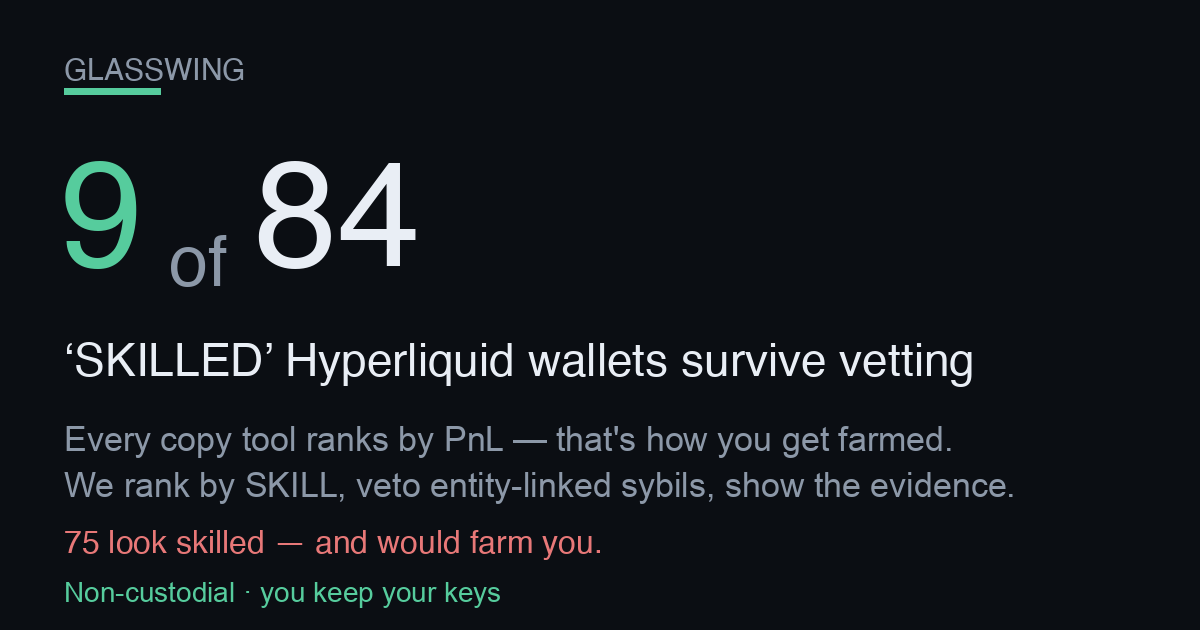
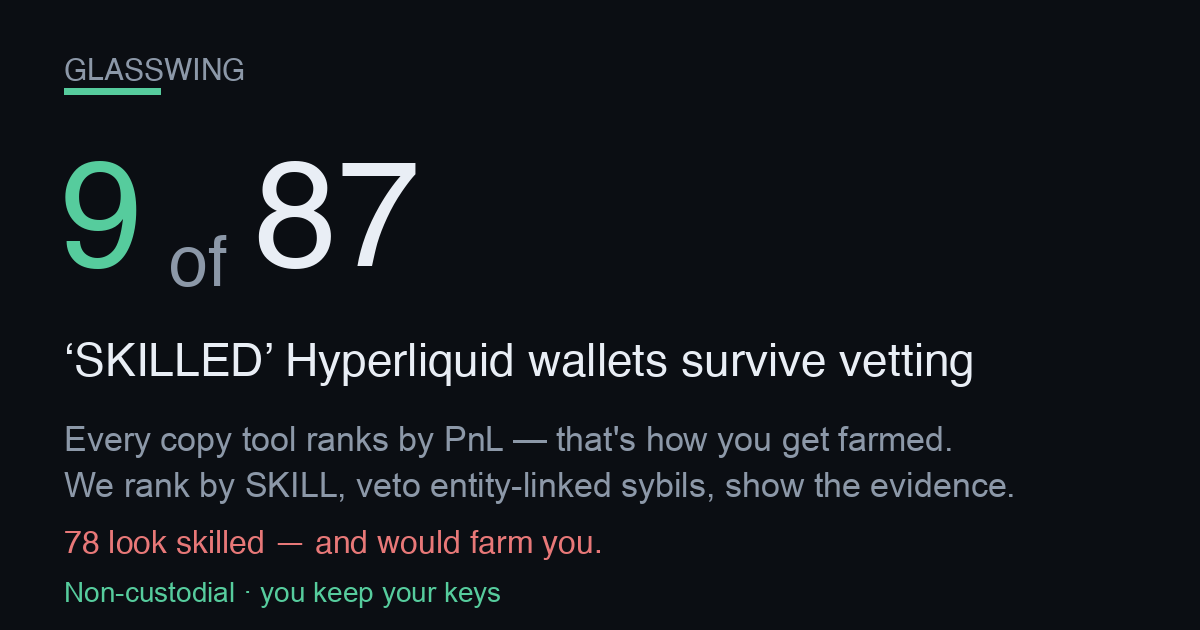
publish funnel 2026-07-28T00:53:15Z

Changed region(s): [[0.2775, 0.2413, 0.37, 0.4222], [0.0617, 0.8444, 0.0925, 0.8746]]

diff --git a/screener.html b/screener.html
@@ -57,4 +57,4 @@ padding:11px 22px;font-size:15px;font-weight:800;border:1px solid var(--good)}
 footer{margin-top:34px;color:var(--muted);font-size:12px;line-height:1.6;
 border-top:1px solid var(--line);padding-top:16px}
 footer b{color:var(--ink)}
-</style></head><body><div class="wrap"><div class="nav"><a href="./index.html">&larr; Glasswing home</a><span class="sep">|</span><span>Edge Screener</span><span class="sep">|</span><a href="./dex.html">Copy a vetted leader</a></div><div class="hero"><h1>Hyperliquid Edge Screener</h1><div class="sub">Where&rsquo;s the carry, where a maker earns, and what&rsquo;s moving on Hyperliquid &mdash; live, computed from the public API. Bookmark it. Every number below is real and timestamped.</div><div class="stamp">Data as of <b>2026-07-27T18:50:26Z</b> &middot; rendered 2026-07-27T18:50:26Z &middot; 177 perps &middot; 88 HIP-3 (xyz) markets scanned</div></div><h2>Top funding &mdash; the carry table <span class="hint">perps ranked by annualized funding. Positive = longs pay shorts (a delta-neutral short earns it).</span></h2><div class="tblwrap"><table><thead><tr><th>Coin</th><th>Funding / hr</th><th>Annualized</th><th>Who pays</th><th>Open interest</th><th>24h volume</th></tr></thead><tbody><tr><td class="coin">SAGA<span class="tag thin" title="Low liquidity/OI &mdash; ADL &amp; liquidation risk; funding can flip">&#9888; thin</span></td><td>+0.0312%</td><td class="pos">+273.1%</td><td><span class="tag longs">longs pay</span></td><td>$2.0M</td><td>$62K</td></tr><tr><td class="coin">ACE<span class="tag thin" title="Low liquidity/OI &mdash; ADL &amp; liquidation risk; funding can flip">&#9888; thin</span></td><td>-0.0171%</td><td class="neg">-149.5%</td><td><span class="tag shorts">shorts pay</span></td><td>$459K</td><td>$493K</td></tr><tr><td class="coin">MOVE<span class="tag thin" title="Low liquidity/OI &mdash; ADL &amp; liquidation risk; funding can flip">&#9888; thin</span></td><td>-0.0153%</td><td class="neg">-133.8%</td><td><span class="tag shorts">shorts pay</span></td><td>$368K</td><td>$224K</td></tr><tr><td class="coin">STABLE<span class="tag thin" title="Low liquidity/OI &mdash; ADL &amp; liquidation risk; funding can flip">&#9888; thin</span></td><td>-0.0081%</td><td class="neg">-71.2%</td><td><span class="tag shorts">shorts pay</span></td><td>$2.6M</td><td>$231K</td></tr><tr><td class="coin">XAI<span class="tag thin" title="Low liquidity/OI &mdash; ADL &amp; liquidation risk; funding can flip">&#9888; thin</span></td><td>-0.0070%</td><td class="neg">-61.4%</td><td><span class="tag shorts">shorts pay</span></td><td>$352K</td><td>$72K</td></tr><tr><td class="coin">MINA<span class="tag thin" title="Low liquidity/OI &mdash; ADL &amp; liquidation risk; funding can flip">&#9888; thin</span></td><td>-0.0069%</td><td class="neg">-60.5%</td><td><span class="tag shorts">shorts pay</span></td><td>$959K</td><td>$196K</td></tr><tr><td class="coin">ADA</td><td>-0.0063%</td><td class="neg">-54.8%</td><td><span class="tag shorts">shorts pay</span></td><td>$24.7M</td><td>$6.8M</td></tr><tr><td class="coin">KAITO</td><td>-0.0053%</td><td class="neg">-46.7%</td><td><span class="tag shorts">shorts pay</span></td><td>$11.0M</td><td>$8.4M</td></tr><tr><td class="coin">ATOM</td><td>-0.0052%</td><td class="neg">-45.2%</td><td><span class="tag shorts">shorts pay</span></td><td>$2.0M</td><td>$354K</td></tr><tr><td class="coin">MEME<span class="tag thin" title="Low liquidity/OI &mdash; ADL &amp; liquidation risk; funding can flip">&#9888; thin</span></td><td>-0.0049%</td><td class="neg">-42.6%</td><td><span class="tag shorts">shorts pay</span></td><td>$395K</td><td>$60K</td></tr><tr><td class="coin">W</td><td>-0.0047%</td><td class="neg">-40.8%</td><td><span class="tag shorts">shorts pay</span></td><td>$1.5M</td><td>$336K</td></tr><tr><td class="coin">GALA<span class="tag thin" title="Low liquidity/OI &mdash; ADL &amp; liquidation risk; funding can flip">&#9888; thin</span></td><td>-0.0045%</td><td class="neg">-39.8%</td><td><span class="tag shorts">shorts pay</span></td><td>$228K</td><td>$114K</td></tr></tbody></table></div><h2>Widest HIP-3 spreads &mdash; where a maker earns <span class="hint">xyz: markets by impact-price spread vs the ~0.6bps round-trip fee. A resting limit order captures the gap.</span></h2><div class="tblwrap"><table><thead><tr><th>Market</th><th>Spread</th><th>vs 0.6bps fee</th><th>Mid</th><th>24h volume</th></tr></thead><tbody><tr><td class="coin">xyz:BIRD<span class="tag gm">growth</span></td><td>395.9 bps</td><td class="pos">+395.3 bps</td><td>2.5102</td><td>$162K</td></tr><tr><td class="coin">xyz:GIGADEV<span class="tag gm">growth</span></td><td>325.4 bps</td><td class="pos">+324.8 bps</td><td>64.2740</td><td>$45K</td></tr><tr><td class="coin">xyz:SOFTBANK<span class="tag gm">growth</span></td><td>190.9 bps</td><td class="pos">+190.3 bps</td><td>31.9660</td><td>$128K</td></tr><tr><td class="coin">xyz:KR200<span class="tag gm">growth</span></td><td>61.7 bps</td><td class="pos">+61.1 bps</td><td>1,003.75</td><td>$628K</td></tr><tr><td class="coin">xyz:BOT<span class="tag gm">growth</span></td><td>54.8 bps</td><td class="pos">+54.2 bps</td><td>25.4780</td><td>$570K</td></tr><tr><td class="coin">xyz:KIOXIA<span class="tag gm">growth</span></td><td>51.4 bps</td><td class="pos">+50.8 bps</td><td>294.6450</td><td>$9.2M</td></tr><tr><td class="coin">xyz:MINIMAX<span class="tag gm">growth</span></td><td>47.8 bps</td><td class="pos">+47.2 bps</td><td>28.0330</td><td>$3.9M</td></tr><tr><td class="coin">xyz:SHAZ<span class="tag gm">growth</span></td><td>28.1 bps</td><td class="pos">+27.5 bps</td><td>59.5215</td><td>$845K</td></tr><tr><td class="coin">xyz:ZHIPU<span class="tag gm">growth</span></td><td>21.0 bps</td><td class="pos">+20.4 bps</td><td>161.6250</td><td>$6.4M</td></tr><tr><td class="coin">xyz:PURRDAT</td><td>19.2 bps</td><td class="pos">+18.6 bps</td><td>6.2534</td><td>$2.4M</td></tr><tr><td class="coin">xyz:QNT<span class="tag gm">growth</span></td><td>18.2 bps</td><td class="pos">+17.6 bps</td><td>51.4195</td><td>$2.3M</td></tr><tr><td class="coin">xyz:SMH<span class="tag gm">growth</span></td><td>15.8 bps</td><td class="pos">+15.2 bps</td><td>542.0300</td><td>$1.9M</td></tr></tbody></table></div><h2>Momentum &amp; volume &mdash; what&rsquo;s moving <span class="hint">perps by 24h volume with the 24h price change (mark vs prior-day).</span></h2><div class="tblwrap"><table><thead><tr><th>Coin</th><th>24h volume</th><th>24h change</th><th>Mark</th></tr></thead><tbody><tr><td class="coin">BTC</td><td>$1.75B</td><td class="pos">+0.03%</td><td>64,731.00</td></tr><tr><td class="coin">ETH</td><td>$939.5M</td><td class="pos">+0.88%</td><td>1,930.80</td></tr><tr><td class="coin">HYPE</td><td>$265.9M</td><td class="neg">-4.16%</td><td>56.5256</td></tr><tr><td class="coin">SOL</td><td>$153.4M</td><td class="neg">-0.14%</td><td>75.2750</td></tr><tr><td class="coin">PUMP</td><td>$66.6M</td><td class="pos">+12.23%</td><td>0.002074</td></tr><tr><td class="coin">ZEC</td><td>$60.8M</td><td class="neg">-1.89%</td><td>482.6600</td></tr><tr><td class="coin">LIT</td><td>$23.5M</td><td class="pos">+4.97%</td><td>2.1736</td></tr><tr><td class="coin">XRP</td><td>$22.6M</td><td class="neg">-1.42%</td><td>1.0868</td></tr><tr><td class="coin">AAVE</td><td>$19.9M</td><td class="pos">+2.38%</td><td>98.7710</td></tr><tr><td class="coin">kPEPE</td><td>$18.1M</td><td class="neg">-0.99%</td><td>0.002889</td></tr><tr><td class="coin">WLD</td><td>$17.5M</td><td class="neg">-3.37%</td><td>0.33806</td></tr><tr><td class="coin">kSHIB</td><td>$14.1M</td><td class="neg">-5.43%</td><td>0.005002</td></tr></tbody></table></div><div class="cta"><h2>These are the opportunities. Now copy the people who trade them.</h2><p class="lead">Spotting the carry and the spreads is the easy part &mdash; sizing, timing and risk are where most traders bleed. Copy the <b>skill-vetted</b> Hyperliquid leaders who actually trade these edges. Non-custodial: <b>you keep your keys and your funds</b> the entire time.</p><div class="row"><a class="btn" href="./index.html">See the vetted leaders &rarr;</a><a class="btn ghost" href="./dex.html">Start copying (non-custodial) &rarr;</a></div><div class="nc"><b>Non-custodial &amp; honest:</b> we never hold your keys or funds. Copying routes through a <b>0.01%</b> (1bp) on-chain builder fee &mdash; that is the only thing we ever charge, and it is the same fee shown on the copy page. Nothing on this screener is executed for you; it is information only.</div></div><footer><b>Not financial advice.</b> Funding rates, spreads and volumes are live snapshots that change every block; figures can be stale by the time you act. A high funding rate is <b>not free money</b> &mdash; the biggest rates sit on the thinnest, most crowded books (flagged &#9888; thin), where funding can flip against you and auto-deleveraging (ADL) or liquidation can close your position. &ldquo;Spread&rdquo; here is the impact-price spread (a conservative maker signal), not a guaranteed fill. HIP-3 markets are experimental. Do your own research and size responsibly. Glasswing is <b>non-custodial</b> &mdash; we never take custody of your keys or funds.</footer></div></body></html>
+</style></head><body><div class="wrap"><div class="nav"><a href="./index.html">&larr; Glasswing home</a><span class="sep">|</span><span>Edge Screener</span><span class="sep">|</span><a href="./dex.html">Copy a vetted leader</a></div><div class="hero"><h1>Hyperliquid Edge Screener</h1><div class="sub">Where&rsquo;s the carry, where a maker earns, and what&rsquo;s moving on Hyperliquid &mdash; live, computed from the public API. Bookmark it. Every number below is real and timestamped.</div><div class="stamp">Data as of <b>2026-07-28T00:52:07Z</b> &middot; rendered 2026-07-28T00:52:07Z &middot; 177 perps &middot; 88 HIP-3 (xyz) markets scanned</div></div><h2>Top funding &mdash; the carry table <span class="hint">perps ranked by annualized funding. Positive = longs pay shorts (a delta-neutral short earns it).</span></h2><div class="tblwrap"><table><thead><tr><th>Coin</th><th>Funding / hr</th><th>Annualized</th><th>Who pays</th><th>Open interest</th><th>24h volume</th></tr></thead><tbody><tr><td class="coin">MOVE<span class="tag thin" title="Low liquidity/OI &mdash; ADL &amp; liquidation risk; funding can flip">&#9888; thin</span></td><td>-0.0187%</td><td class="neg">-163.6%</td><td><span class="tag shorts">shorts pay</span></td><td>$369K</td><td>$234K</td></tr><tr><td class="coin">REZ<span class="tag thin" title="Low liquidity/OI &mdash; ADL &amp; liquidation risk; funding can flip">&#9888; thin</span></td><td>-0.0124%</td><td class="neg">-108.9%</td><td><span class="tag shorts">shorts pay</span></td><td>$355K</td><td>$767K</td></tr><tr><td class="coin">BIO</td><td>-0.0096%</td><td class="neg">-84.3%</td><td><span class="tag shorts">shorts pay</span></td><td>$747K</td><td>$283K</td></tr><tr><td class="coin">S</td><td>-0.0095%</td><td class="neg">-82.9%</td><td><span class="tag shorts">shorts pay</span></td><td>$692K</td><td>$276K</td></tr><tr><td class="coin">AXS<span class="tag thin" title="Low liquidity/OI &mdash; ADL &amp; liquidation risk; funding can flip">&#9888; thin</span></td><td>-0.0085%</td><td class="neg">-74.4%</td><td><span class="tag shorts">shorts pay</span></td><td>$318K</td><td>$175K</td></tr><tr><td class="coin">PURR</td><td>+0.0076%</td><td class="pos">+67.0%</td><td><span class="tag longs">longs pay</span></td><td>$5.8M</td><td>$325K</td></tr><tr><td class="coin">2Z<span class="tag thin" title="Low liquidity/OI &mdash; ADL &amp; liquidation risk; funding can flip">&#9888; thin</span></td><td>-0.0073%</td><td class="neg">-64.1%</td><td><span class="tag shorts">shorts pay</span></td><td>$544K</td><td>$141K</td></tr><tr><td class="coin">SAGA<span class="tag thin" title="Low liquidity/OI &mdash; ADL &amp; liquidation risk; funding can flip">&#9888; thin</span></td><td>+0.0071%</td><td class="pos">+62.3%</td><td><span class="tag longs">longs pay</span></td><td>$1.9M</td><td>$72K</td></tr><tr><td class="coin">EIGEN</td><td>-0.0071%</td><td class="neg">-62.0%</td><td><span class="tag shorts">shorts pay</span></td><td>$4.5M</td><td>$1.1M</td></tr><tr><td class="coin">SEI</td><td>-0.0066%</td><td class="neg">-57.9%</td><td><span class="tag shorts">shorts pay</span></td><td>$1.4M</td><td>$600K</td></tr><tr><td class="coin">SPX</td><td>-0.0062%</td><td class="neg">-54.3%</td><td><span class="tag shorts">shorts pay</span></td><td>$2.2M</td><td>$1.1M</td></tr><tr><td class="coin">ZRO</td><td>+0.0060%</td><td class="pos">+52.5%</td><td><span class="tag longs">longs pay</span></td><td>$32.5M</td><td>$7.0M</td></tr></tbody></table></div><h2>Widest HIP-3 spreads &mdash; where a maker earns <span class="hint">xyz: markets by impact-price spread vs the ~0.6bps round-trip fee. A resting limit order captures the gap.</span></h2><div class="tblwrap"><table><thead><tr><th>Market</th><th>Spread</th><th>vs 0.6bps fee</th><th>Mid</th><th>24h volume</th></tr></thead><tbody><tr><td class="coin">xyz:GIGADEV<span class="tag gm">growth</span></td><td>458.8 bps</td><td class="pos">+458.2 bps</td><td>64.3565</td><td>$61K</td></tr><tr><td class="coin">xyz:BIRD<span class="tag gm">growth</span></td><td>214.1 bps</td><td class="pos">+213.5 bps</td><td>2.4829</td><td>$147K</td></tr><tr><td class="coin">xyz:BOT<span class="tag gm">growth</span></td><td>124.3 bps</td><td class="pos">+123.7 bps</td><td>25.7760</td><td>$689K</td></tr><tr><td class="coin">xyz:PURRDAT</td><td>74.2 bps</td><td class="pos">+73.6 bps</td><td>6.2403</td><td>$3.0M</td></tr><tr><td class="coin">xyz:SOFTBANK<span class="tag gm">growth</span></td><td>66.2 bps</td><td class="pos">+65.6 bps</td><td>30.4810</td><td>$155K</td></tr><tr><td class="coin">xyz:MINIMAX<span class="tag gm">growth</span></td><td>43.5 bps</td><td class="pos">+42.9 bps</td><td>28.0170</td><td>$3.7M</td></tr><tr><td class="coin">xyz:EBAY<span class="tag gm">growth</span></td><td>41.7 bps</td><td class="pos">+41.1 bps</td><td>113.4400</td><td>$351K</td></tr><tr><td class="coin">xyz:KR200<span class="tag gm">growth</span></td><td>39.2 bps</td><td class="pos">+38.6 bps</td><td>987.0500</td><td>$718K</td></tr><tr><td class="coin">xyz:KIOXIA<span class="tag gm">growth</span></td><td>34.1 bps</td><td class="pos">+33.5 bps</td><td>271.7700</td><td>$12.4M</td></tr><tr><td class="coin">xyz:URNM<span class="tag gm">growth</span></td><td>28.8 bps</td><td class="pos">+28.2 bps</td><td>49.8025</td><td>$137K</td></tr><tr><td class="coin">xyz:SHAZ<span class="tag gm">growth</span></td><td>26.5 bps</td><td class="pos">+25.9 bps</td><td>57.8915</td><td>$1.1M</td></tr><tr><td class="coin">xyz:SMH<span class="tag gm">growth</span></td><td>22.5 bps</td><td class="pos">+21.9 bps</td><td>543.5050</td><td>$1.9M</td></tr></tbody></table></div><h2>Momentum &amp; volume &mdash; what&rsquo;s moving <span class="hint">perps by 24h volume with the 24h price change (mark vs prior-day).</span></h2><div class="tblwrap"><table><thead><tr><th>Coin</th><th>24h volume</th><th>24h change</th><th>Mark</th></tr></thead><tbody><tr><td class="coin">BTC</td><td>$2.07B</td><td class="neg">-2.51%</td><td>63,468.00</td></tr><tr><td class="coin">ETH</td><td>$1.02B</td><td class="neg">-3.33%</td><td>1,877.10</td></tr><tr><td class="coin">HYPE</td><td>$322.2M</td><td class="neg">-5.45%</td><td>56.0850</td></tr><tr><td class="coin">SOL</td><td>$157.2M</td><td class="neg">-3.43%</td><td>73.6920</td></tr><tr><td class="coin">ZEC</td><td>$50.9M</td><td class="neg">-6.01%</td><td>476.1400</td></tr><tr><td class="coin">PUMP</td><td>$49.9M</td><td class="pos">+3.98%</td><td>0.002064</td></tr><tr><td class="coin">XRP</td><td>$30.7M</td><td class="neg">-4.45%</td><td>1.0590</td></tr><tr><td class="coin">LIT</td><td>$23.8M</td><td class="neg">-1.87%</td><td>2.1204</td></tr><tr><td class="coin">kPEPE</td><td>$19.7M</td><td class="neg">-5.95%</td><td>0.002798</td></tr><tr><td class="coin">AAVE</td><td>$15.6M</td><td class="neg">-3.15%</td><td>97.6720</td></tr><tr><td class="coin">NEAR</td><td>$15.5M</td><td class="neg">-8.38%</td><td>1.6871</td></tr><tr><td class="coin">WLD</td><td>$13.9M</td><td class="neg">-7.34%</td><td>0.32654</td></tr></tbody></table></div><div class="cta"><h2>These are the opportunities. Now copy the people who trade them.</h2><p class="lead">Spotting the carry and the spreads is the easy part &mdash; sizing, timing and risk are where most traders bleed. Copy the <b>skill-vetted</b> Hyperliquid leaders who actually trade these edges. Non-custodial: <b>you keep your keys and your funds</b> the entire time.</p><div class="row"><a class="btn" href="./index.html">See the vetted leaders &rarr;</a><a class="btn ghost" href="./dex.html">Start copying (non-custodial) &rarr;</a></div><div class="nc"><b>Non-custodial &amp; honest:</b> we never hold your keys or funds. Copying routes through a <b>0.01%</b> (1bp) on-chain builder fee &mdash; that is the only thing we ever charge, and it is the same fee shown on the copy page. Nothing on this screener is executed for you; it is information only.</div></div><footer><b>Not financial advice.</b> Funding rates, spreads and volumes are live snapshots that change every block; figures can be stale by the time you act. A high funding rate is <b>not free money</b> &mdash; the biggest rates sit on the thinnest, most crowded books (flagged &#9888; thin), where funding can flip against you and auto-deleveraging (ADL) or liquidation can close your position. &ldquo;Spread&rdquo; here is the impact-price spread (a conservative maker signal), not a guaranteed fill. HIP-3 markets are experimental. Do your own research and size responsibly. Glasswing is <b>non-custodial</b> &mdash; we never take custody of your keys or funds.</footer></div></body></html>

diff --git a/track.html b/track.html
@@ -62,7 +62,7 @@ font-weight:600;font-size:14px}
 <div class="wrap">
   <div class="hero">
     <h1>Self-verifying on-chain track record</h1>
-    <div class="big">$332.28</div>
+    <div class="big">$332.83</div>
     <div class="sub">current on-chain equity (perp + vault + spot USDC)</div>
     <div class="addr">0xbe6C1b09662BbE52CC93279D103Feb27985DdBc1</div>
     <div class="stage early">9 days live — EARLY / NOT YET A MATURE RECORD</div>
@@ -72,25 +72,25 @@ font-weight:600;font-size:14px}
 
   <h2>On-chain figures <span style="color:var(--muted);font-weight:400;font-size:13px">
   &mdash; every one reproducible from the public info API</span></h2>
-  <table><tbody><tr><td class="k">On-chain equity (perp + vault + spot USDC)</td><td class="v">$332.28</td></tr><tr><td class="k">Perp account value</td><td class="v">$217.81</td></tr><tr><td class="k">Vault equity</td><td class="v">$50.33</td></tr><tr><td class="k">Spot USDC</td><td class="v">$64.14</td></tr><tr><td class="k">Withdrawable</td><td class="v">$102.26</td></tr></tbody></table>
+  <table><tbody><tr><td class="k">On-chain equity (perp + vault + spot USDC)</td><td class="v">$332.83</td></tr><tr><td class="k">Perp account value</td><td class="v">$218.78</td></tr><tr><td class="k">Vault equity</td><td class="v">$49.90</td></tr><tr><td class="k">Spot USDC</td><td class="v">$64.14</td></tr><tr><td class="k">Withdrawable</td><td class="v">$104.42</td></tr></tbody></table>
 
-  <h2>Vault deposits (on-chain)</h2><table><thead><tr><th>Vault address</th><th>Our equity</th></tr></thead><tbody><tr><td class="mono">0x2431edfcb662e6ff6deab113cc91878a0b53fb0f</td><td class="v">$0.01</td></tr><tr><td class="mono">0x697bc3dd77539fa84156d0e1c95287ea5524fd6b</td><td class="v">$26.10</td></tr><tr><td class="mono">0x8825e6ed11c7f9c0874579c9f4bba192b9e81c8f</td><td class="v">$0.12</td></tr><tr><td class="mono">0xc71f5a493b937e4b1798b86510630336a6dfd804</td><td class="v">$24.10</td></tr></tbody></table>
+  <h2>Vault deposits (on-chain)</h2><table><thead><tr><th>Vault address</th><th>Our equity</th></tr></thead><tbody><tr><td class="mono">0x2431edfcb662e6ff6deab113cc91878a0b53fb0f</td><td class="v">$0.01</td></tr><tr><td class="mono">0x697bc3dd77539fa84156d0e1c95287ea5524fd6b</td><td class="v">$25.88</td></tr><tr><td class="mono">0x8825e6ed11c7f9c0874579c9f4bba192b9e81c8f</td><td class="v">$0.12</td></tr><tr><td class="mono">0xc71f5a493b937e4b1798b86510630336a6dfd804</td><td class="v">$23.90</td></tr></tbody></table>
 
   <h2>Performance <span style="color:var(--muted);font-weight:400;font-size:13px">
   &mdash; honest stage, no annualization</span></h2>
-  <table><tbody><tr><td class="k">Days live (our formal record)</td><td class="v">9</td></tr><tr><td class="k">Maturity</td><td class="v">EARLY / NOT YET A MATURE RECORD</td></tr><tr><td class="k">Current real strategy income / day</td><td class="v">$0.0645</td></tr><tr><td class="k">Cumulative net income (if attributed)</td><td class="v">$0.4859</td></tr><tr><td class="k">Annualized APR</td><td class="v">intentionally NOT computed (record too young)</td></tr></tbody></table>
+  <table><tbody><tr><td class="k">Days live (our formal record)</td><td class="v">9</td></tr><tr><td class="k">Maturity</td><td class="v">EARLY / NOT YET A MATURE RECORD</td></tr><tr><td class="k">Current real strategy income / day</td><td class="v">$0.0659</td></tr><tr><td class="k">Cumulative net income (if attributed)</td><td class="v">$0.5102</td></tr><tr><td class="k">Annualized APR</td><td class="v">intentionally NOT computed (record too young)</td></tr></tbody></table>
 
   <h2>Strategy arms <span style="color:var(--muted);font-weight:400;font-size:13px">
   &mdash; internal marks, cross-checkable against chain equity</span></h2>
-  <table><thead><tr><th>Arm</th><th>Status</th><th>Real / day</th><th>Note</th></tr></thead><tbody><tr><td class="v">carry</td><td><span class="badge live">live</span></td><td class="v">$0.0645</td><td class="k"></td></tr><tr><td class="v">copy</td><td><span class="badge live">live</span></td><td class="v">$0.0000</td><td class="k"></td></tr><tr><td class="v">builder</td><td><span class="badge off">—</span></td><td class="v">$0.0000</td><td class="k">proven live; $0 until distributed (∝ users&#x27; volume)</td></tr></tbody></table>
+  <table><thead><tr><th>Arm</th><th>Status</th><th>Real / day</th><th>Note</th></tr></thead><tbody><tr><td class="v">carry</td><td><span class="badge live">live</span></td><td class="v">$0.0659</td><td class="k"></td></tr><tr><td class="v">copy</td><td><span class="badge live">live</span></td><td class="v">$0.0000</td><td class="k"></td></tr><tr><td class="v">builder</td><td><span class="badge off">—</span></td><td class="v">$0.0000</td><td class="k">proven live; $0 until distributed (∝ users&#x27; volume)</td></tr></tbody></table>
 
   <h2>Reproduce it</h2>
   <div class="verify"><h3>Verify this yourself</h3><p>These are PUBLIC calls. Run them yourself against the address below and you will re-derive every on-chain figure on this page. equity_usd = perp accountValue + vault equity + spot USDC. Endpoint: https://api.hyperliquid.xyz/info</p><div class="cn">clearinghouseState &rarr; marginSummary.accountValue (perp value), withdrawable, marginSummary.totalMarginUsed</div><pre>curl -s -X POST https://api.hyperliquid.xyz/info -H &#x27;Content-Type: application/json&#x27; -d &#x27;{&quot;type&quot;: &quot;clearinghouseState&quot;, &quot;user&quot;: &quot;0xbe6C1b09662BbE52CC93279D103Feb27985DdBc1&quot;}&#x27;</pre><div class="cn">userVaultEquities &rarr; sum of each entry&#x27;s equity (our vault deposits)</div><pre>curl -s -X POST https://api.hyperliquid.xyz/info -H &#x27;Content-Type: application/json&#x27; -d &#x27;{&quot;type&quot;: &quot;userVaultEquities&quot;, &quot;user&quot;: &quot;0xbe6C1b09662BbE52CC93279D103Feb27985DdBc1&quot;}&#x27;</pre><div class="cn">spotClearinghouseState &rarr; balances[] where coin==USDC -&gt; total (spot USDC)</div><pre>curl -s -X POST https://api.hyperliquid.xyz/info -H &#x27;Content-Type: application/json&#x27; -d &#x27;{&quot;type&quot;: &quot;spotClearinghouseState&quot;, &quot;user&quot;: &quot;0xbe6C1b09662BbE52CC93279D103Feb27985DdBc1&quot;}&#x27;</pre></div>
 
   <footer>
     <div>Self-verifying: every on-chain figure is reproducible by querying Hyperliquid&#x27;s public info API for the stated address. Internal daily marks are cross-checkable against on-chain equity. EARLY-STAGE record — not a mature track record, not an APR promise, not financial advice. Past performance != future results.</div>
-    <div class="stamp">Generated at 2026-07-27T18:50:05Z &middot; internal marks
-    mtime 2026-07-27T16:52:14Z &middot; static receipt, no live
+    <div class="stamp">Generated at 2026-07-28T00:51:50Z &middot; internal marks
+    mtime 2026-07-27T22:52:26Z &middot; static receipt, no live
     authority — this page never trades or arms.</div>
   </footer>
 </div>

diff --git a/index.html b/index.html
@@ -3,8 +3,8 @@
 <head>
 <meta charset="utf-8">
 <meta name="viewport" content="width=device-width, initial-scale=1">
-<title>9 of 84 SKILLED Hyperliquid wallets survive vetting</title>
-<meta name="description" content="9 of 84 leaderboard-SKILLED Hyperliquid wallets survive vetting. Copy only the survivors, non-custodial — you keep your keys and funds.">
+<title>9 of 87 SKILLED Hyperliquid wallets survive vetting</title>
+<meta name="description" content="9 of 87 leaderboard-SKILLED Hyperliquid wallets survive vetting. Copy only the survivors, non-custodial — you keep your keys and funds.">
 <link rel="canonical" href="https://dynobit.github.io/glasswing/">
 <meta name="robots" content="index,follow">
 <meta name="theme-color" content="#0b0e13">
@@ -14,14 +14,14 @@
      head, not this. og:url is the canonical Pages home so every share resolves here. -->
 <meta property="og:type" content="website">
 <meta property="og:site_name" content="Glasswing">
-<meta property="og:title" content="9 of 84 SKILLED Hyperliquid wallets survive vetting">
+<meta property="og:title" content="9 of 87 SKILLED Hyperliquid wallets survive vetting">
 <meta property="og:description" content="Every copy tool ranks leaders by PnL — which is how you get farmed. This ranks by SKILL, then vetoes entity-linked sybils, and shows the evidence for every reject. Non-custodial: you keep your keys.">
 <meta property="og:url" content="https://dynobit.github.io/glasswing/">
 <meta property="og:image" content="https://dynobit.github.io/glasswing/og-card.png">
 <meta property="og:image:width" content="1200">
 <meta property="og:image:height" content="630">
 <meta name="twitter:card" content="summary_large_image">
-<meta name="twitter:title" content="9 of 84 SKILLED Hyperliquid wallets survive vetting">
+<meta name="twitter:title" content="9 of 87 SKILLED Hyperliquid wallets survive vetting">
 <meta name="twitter:description" content="Skill-ranked (not PnL-ranked) HL copy-leaders, entity-linked sybils vetoed with evidence. Non-custodial.">
 <meta name="twitter:image" content="https://dynobit.github.io/glasswing/og-card.png">
 <style>
@@ -135,18 +135,18 @@ footer .nc{color:var(--good);font-weight:600}
 
   <!-- 1. HERO — the shareable hook (screenshot-worthy) -->
   <div class="hero">
-    <h1><span class="big">9 of 84</span> &lsquo;SKILLED&rsquo;
+    <h1><span class="big">9 of 87</span> &lsquo;SKILLED&rsquo;
     Hyperliquid wallets survive vetting</h1>
-    <div class="sub">The other <span class="trap">75</span> look skilled on a
+    <div class="sub">The other <span class="trap">78</span> look skilled on a
     raw copy leaderboard but would farm you &mdash; here are the
-    <span class="trap">75</span> that would. Entity-linked sybils,
-    wash-traded track records, or simply unscreened. 10.7% survive.
-    Universe: 693 scored wallets.</div>
+    <span class="trap">78</span> that would. Entity-linked sybils,
+    wash-traded track records, or simply unscreened. 10.3% survive.
+    Universe: 712 scored wallets.</div>
   </div>
 
   <!-- 2. THE WEDGE — the marketing (why us, not any other copy tool) -->
   <div class="wedge"><span class="them">Every other copy tool ranks all
-    84 by PnL and calls it a leaderboard.</span> We are the only one that
+    87 by PnL and calls it a leaderboard.</span> We are the only one that
     <b>flags the entity-linked and farming wallets with on-chain evidence</b> &mdash;
     transfer-graph linkage between wallets and arXiv memecoin farm-features &mdash;
     and shows you only the 9 that survive. A high PnL is exactly what a
@@ -268,7 +268,7 @@ footer .nc{color:var(--good);font-weight:600}
   <footer>
     <div class="nc">Non-custodial: we never hold your keys or funds. No server, no backend. Your browser talks only to Hyperliquid&#x27;s public API.</div>
     <div>Advisory. Skill = sign-randomization null vs luck. Entity veto = public transfer-graph linkage. Farm screen = arXiv:2601.08641 features (memecoin thresholds, HL-uncalibrated). Follower-realizable PnL is NOT yet proven — a PRE-COMMITTED forward test is in progress (0/2 windows, earliest 2026-08-13); the copyability claim publishes only when the pre-registered windows close, so it cannot be discovery-mined. Exit-alpha shown is advisory. Not financial advice.</div>
-    <div class="stamp">Generated at 2026-07-27T18:50:08Z &middot; single-file funnel,
+    <div class="stamp">Generated at 2026-07-28T00:51:56Z &middot; single-file funnel,
     no live authority. In-browser order signing is IMPLEMENTED (real secp256k1 +
     keccak + msgpack EIP-712 from a pinned CDN) but UNVALIDATED against Hyperliquid:
     mainnet is blocked until a testnet order is proven accepted.</div>

diff --git a/dex.html b/dex.html
@@ -112,8 +112,8 @@ footer .nc{color:var(--good);font-weight:600}
     funds and your keys the whole time. Two signatures in your own wallet, an
     ephemeral in-browser agent key that can trade but never withdraw, and a
     client-side loop that mirrors only the
-    <b>9 of 84</b> vetted survivors
-    (universe: 693 scored wallets). No server, no backend.</div>
+    <b>9 of 87</b> vetted survivors
+    (universe: 712 scored wallets). No server, no backend.</div>
     <div class="tag">static bundle &middot; IPFS-publishable &middot; revenue accrues on-chain</div>
   </div>
 
@@ -217,7 +217,7 @@ footer .nc{color:var(--good);font-weight:600}
   <footer>
     <div class="nc">Pure DEX, self-custodial. No server, no backend, no key we ever hold. Your browser talks only to Hyperliquid&#x27;s public API.</div>
     <div>Advisory. Skill = sign-randomization null vs luck. Entity veto = public transfer-graph linkage. Farm screen = arXiv:2601.08641 features (memecoin thresholds, HL-uncalibrated). Follower-realizable PnL is NOT yet proven — a PRE-COMMITTED forward test is in progress (0/2 windows, earliest 2026-08-13); the copyability claim publishes only when the pre-registered windows close, so it cannot be discovery-mined. Exit-alpha shown is advisory. Not financial advice.</div>
-    <div class="stamp">Generated at 2026-07-27T18:50:08Z &middot; static,
+    <div class="stamp">Generated at 2026-07-28T00:51:56Z &middot; static,
     self-custodial surface, no live authority. In-browser order signing is
     IMPLEMENTED (real secp256k1 + keccak + msgpack EIP-712 from a pinned CDN) but
     UNVALIDATED against Hyperliquid: mainnet is blocked until a testnet order is
